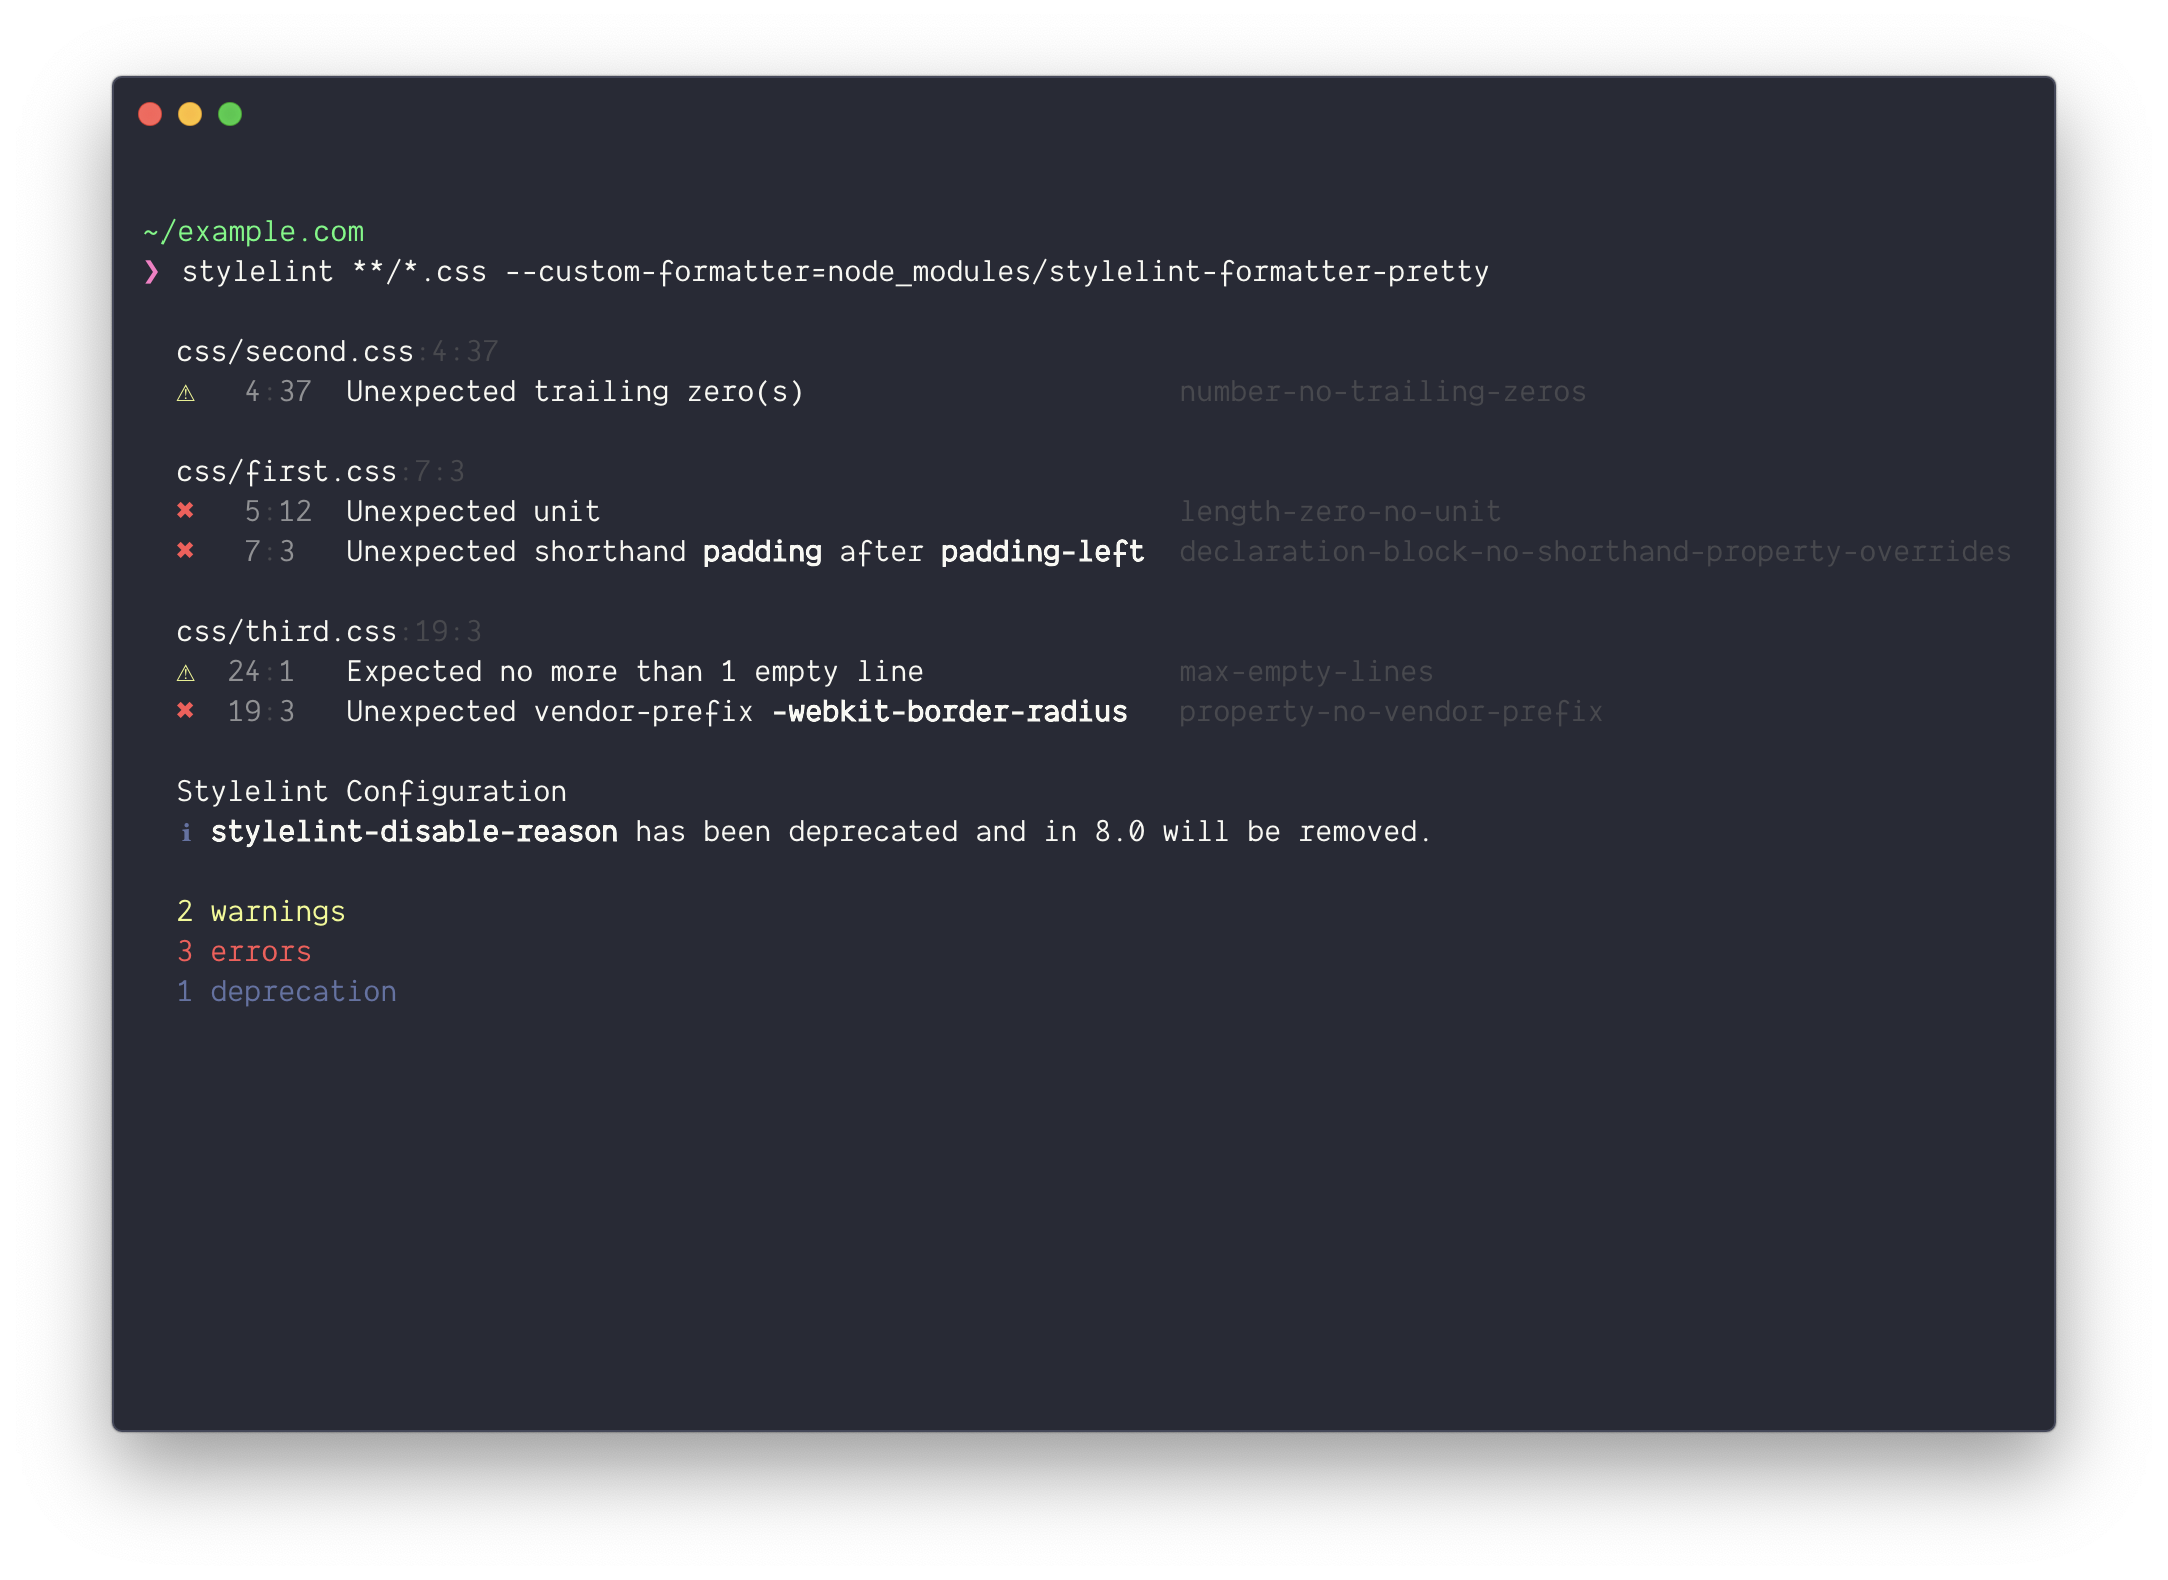
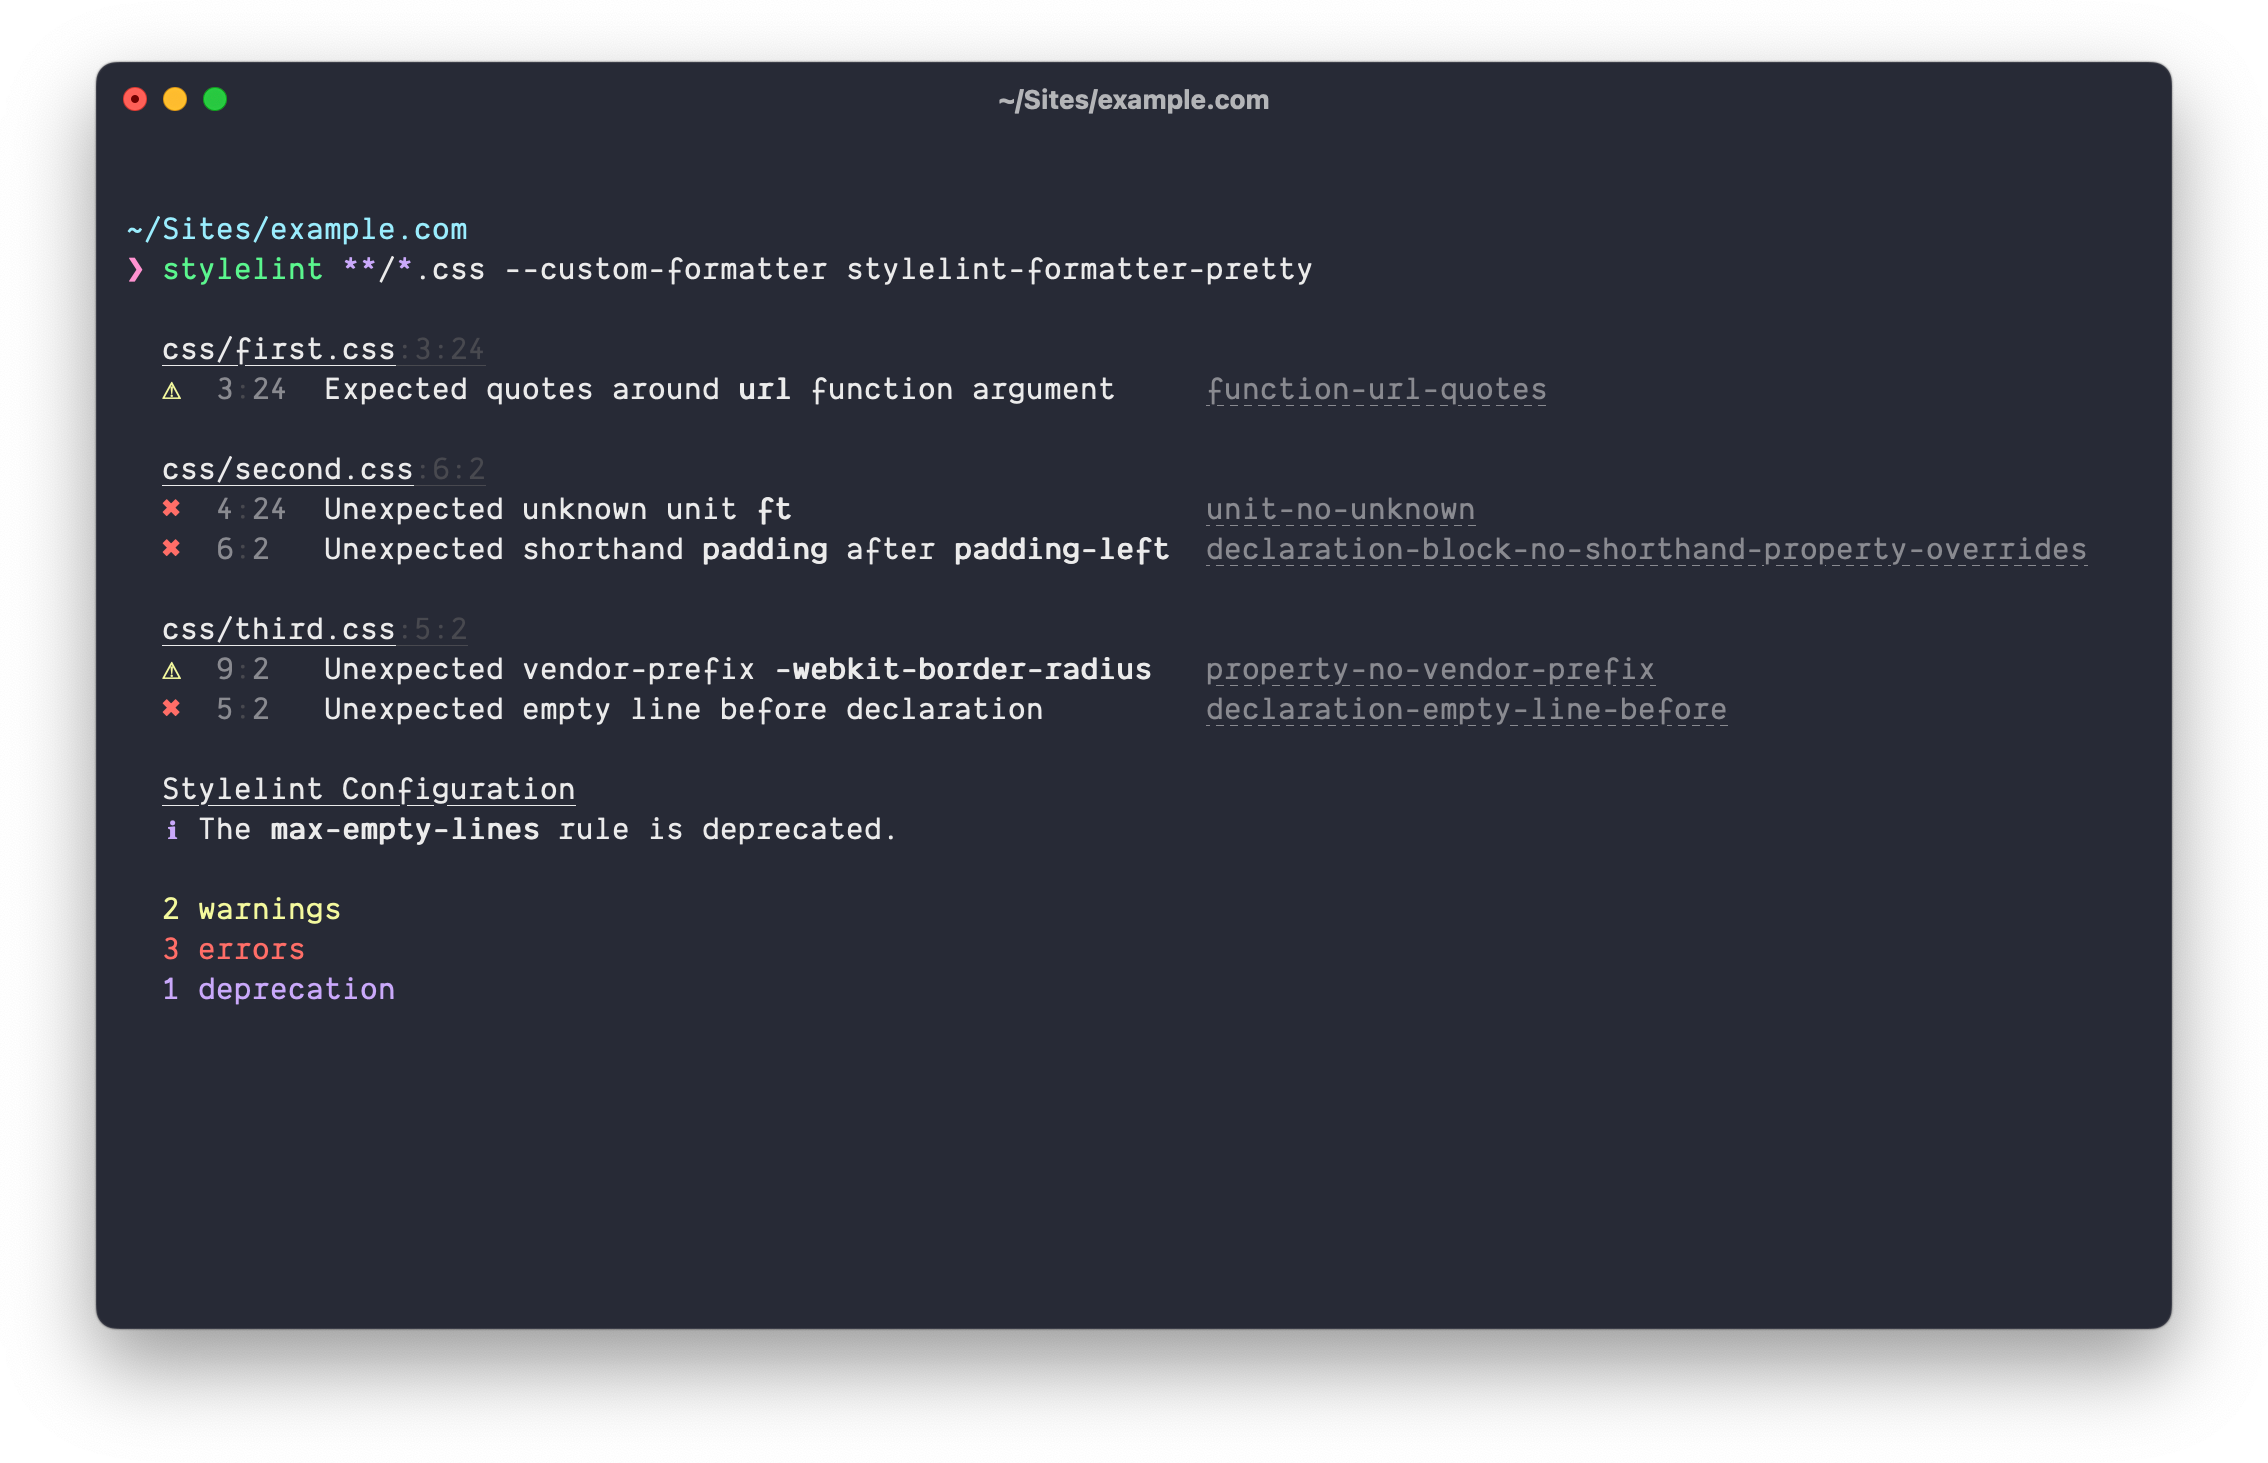
Hyperlinks for rules (#122)
* Add support for linked rules (#121)

* Dim the rule to be on par with `eslint-formatter-pretty`.

* Update screenshot.

* Update documentation.

diff --git a/tests/index.test.js b/tests/index.test.js
@@ -1,5 +1,7 @@
+import process from 'node:process';
 import test from 'ava';
 import stripAnsi from 'strip-ansi';
+import ansiEscapes from 'ansi-escapes';
 
 import m from '../index.js';
 
@@ -7,14 +9,25 @@ import defaultFixture from './fixtures/default.js';
 import deprecationsFixture from './fixtures/deprecations.js';
 import invalidOptionsFixture from './fixtures/invalid-options.js';
 import parseErrorFixture from './fixtures/parse-error.js';
+import linterResultFixture from './fixtures/linter-result.js';
+
+const enableHyperlinks = () => {
+	process.env.FORCE_HYPERLINK = '1';
+};
+
+const disableHyperlinks = () => {
+	process.env.FORCE_HYPERLINK = '0';
+};
 
 test('output', t => {
+	disableHyperlinks();
 	const output = m(defaultFixture);
 	t.regex(stripAnsi(output), /first\.css:3:12\n/);
 	t.regex(stripAnsi(output), /✖ {3}3:12 {2}Unexpected leading zero {26}number-leading-zero/);
 });
 
 test('deprecations', t => {
+	disableHyperlinks();
 	const output = m(deprecationsFixture);
 	t.regex(stripAnsi(output), /Stylelint Configuration\n/);
 	t.regex(stripAnsi(output), /ℹ time-no-imperceptible has been deprecated and in 8.0 will be removed. Instead use time-min-milliseconds with 100 as its primary option./);
@@ -23,6 +36,7 @@ test('deprecations', t => {
 });
 
 test('invalid options', t => {
+	disableHyperlinks();
 	const output = m(invalidOptionsFixture);
 	t.regex(stripAnsi(output), /Stylelint Configuration\n/);
 	t.regex(stripAnsi(output), /✖ Invalid option value snakeCase for rule value-keyword-case/);
@@ -31,6 +45,7 @@ test('invalid options', t => {
 });
 
 test('parse errors', t => {
+	disableHyperlinks();
 	const output = m(parseErrorFixture);
 	t.regex(stripAnsi(output), /first\.css:7:12\n/);
 	t.regex(stripAnsi(output), /✖ {2}7:12 {2}Unexpected token {2}parseError/);
@@ -38,11 +53,25 @@ test('parse errors', t => {
 });
 
 test('empty results', t => {
+	disableHyperlinks();
 	const output = m([]);
 	t.is(stripAnsi(output), '');
 });
 
 test('invalid Stylelint output', t => {
+	disableHyperlinks();
 	const output = m('foobar');
 	t.is(stripAnsi(output), '');
+});
+
+test('linked rules', t => {
+	enableHyperlinks();
+	const output = m(defaultFixture, linterResultFixture);
+	t.true(output.includes(ansiEscapes.link('number-leading-zero', 'https://stylelint.io/user-guide/rules/number-leading-zero')));
+});
+
+test('no errors when no URL is found to link a rule', t => {
+	enableHyperlinks();
+	const output = m(defaultFixture, linterResultFixture);
+	t.true(output.includes('number-no-trailing-zeros'));
 });

diff --git a/tests/fixtures/default.js b/tests/fixtures/default.js
@@ -15,6 +15,12 @@ const fixture = [
 				rule: 'declaration-block-no-shorthand-property-overrides',
 				severity: 'error',
 				text: 'Unexpected shorthand "padding" after "padding-left" (declaration-block-no-shorthand-property-overrides)',
+			}, {
+				line: 8,
+				column: 13,
+				rule: undefined,
+				severity: 'error',
+				text: 'An undefined rule just for the fixture',
 			},
 		],
 		deprecations: [],

diff --git a/tests/fixtures/linter-result.js b/tests/fixtures/linter-result.js
@@ -1,0 +1,14 @@
+const fixture = {
+	errored: true,
+	results: [],
+	output: '',
+	reportedDisables: [],
+	ruleMetadata: {
+		'number-leading-zero': {
+			url: 'https://stylelint.io/user-guide/rules/number-leading-zero',
+			fixable: true,
+		},
+	},
+};
+
+export default fixture;

diff --git a/README.md b/README.md
@@ -85,9 +85,11 @@ module.exports = {
 }
 ```
 
-## Tip
+## Tips
 
-In iTerm, <kbd>Cmd</kbd>+Click the filename header to open the file in your editor.
+In iTerm, <kbd>Command</kbd>+Click the filename header to open the file in your editor.
+
+In [terminals with support for hyperlinks](https://gist.github.com/egmontkob/eb114294efbcd5adb1944c9f3cb5feda#supporting-apps), <kbd>Command</kbd>+Click the rule ID to open its documentation.
 
 ## Related
 
